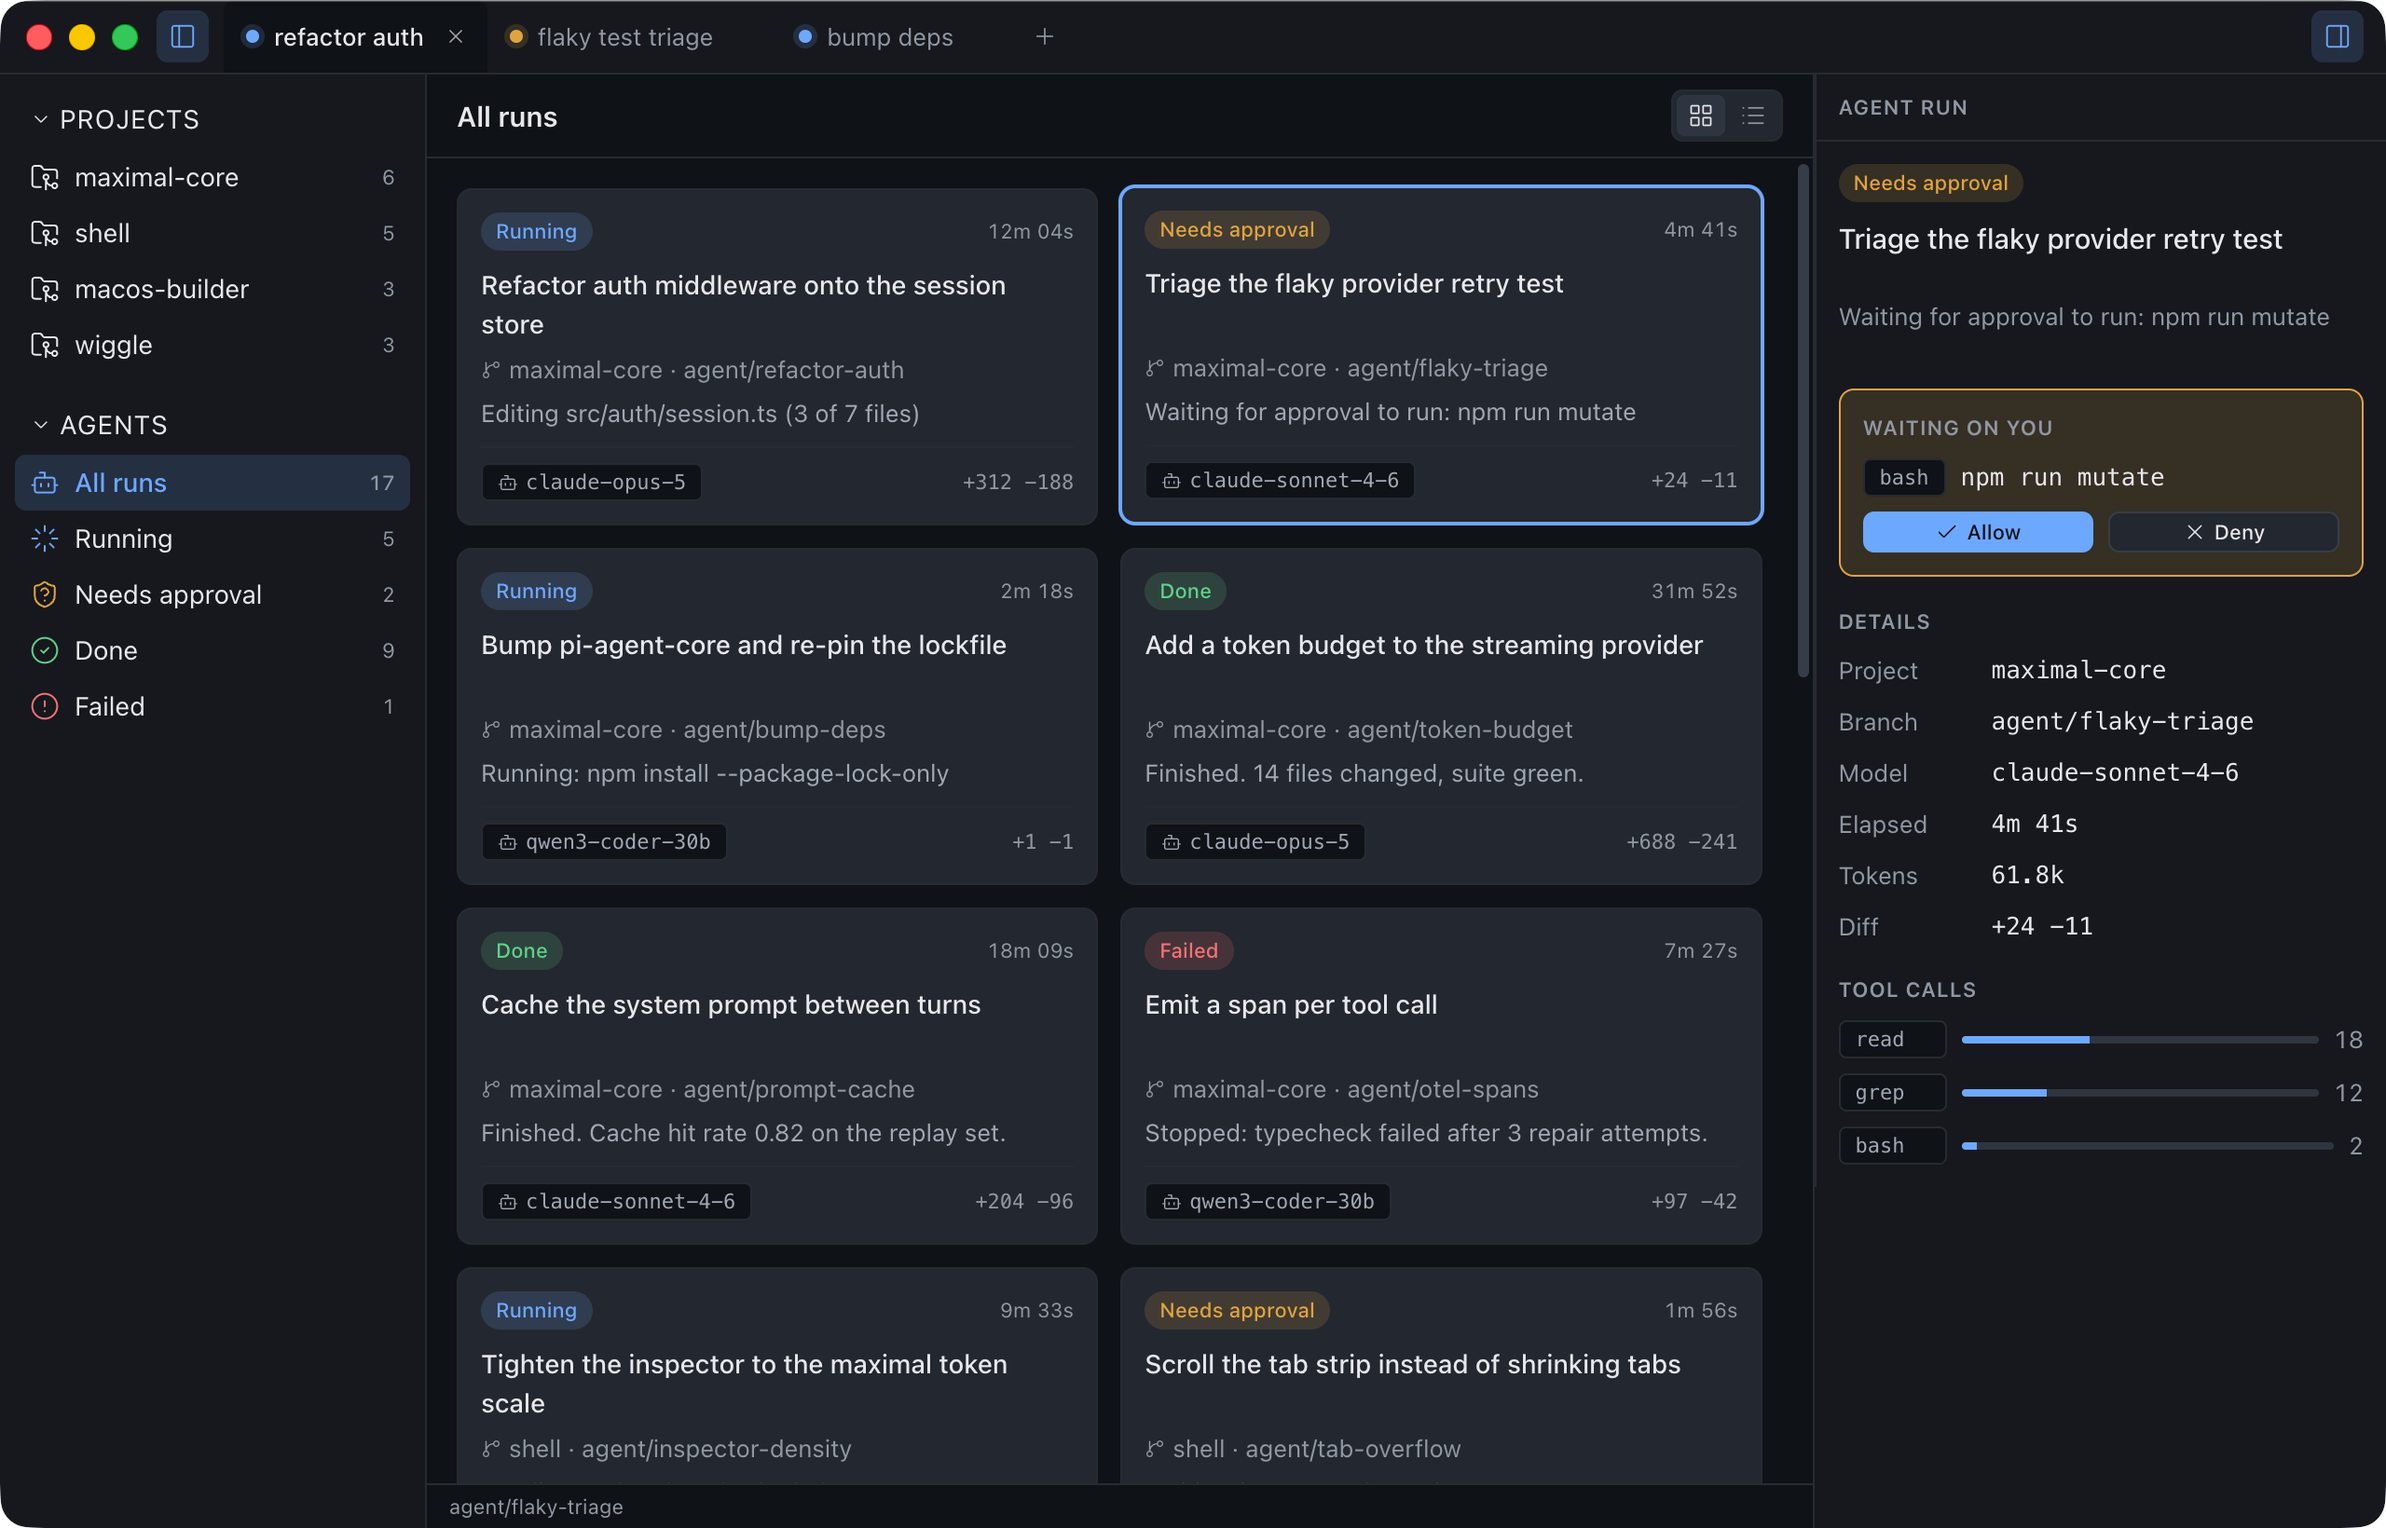
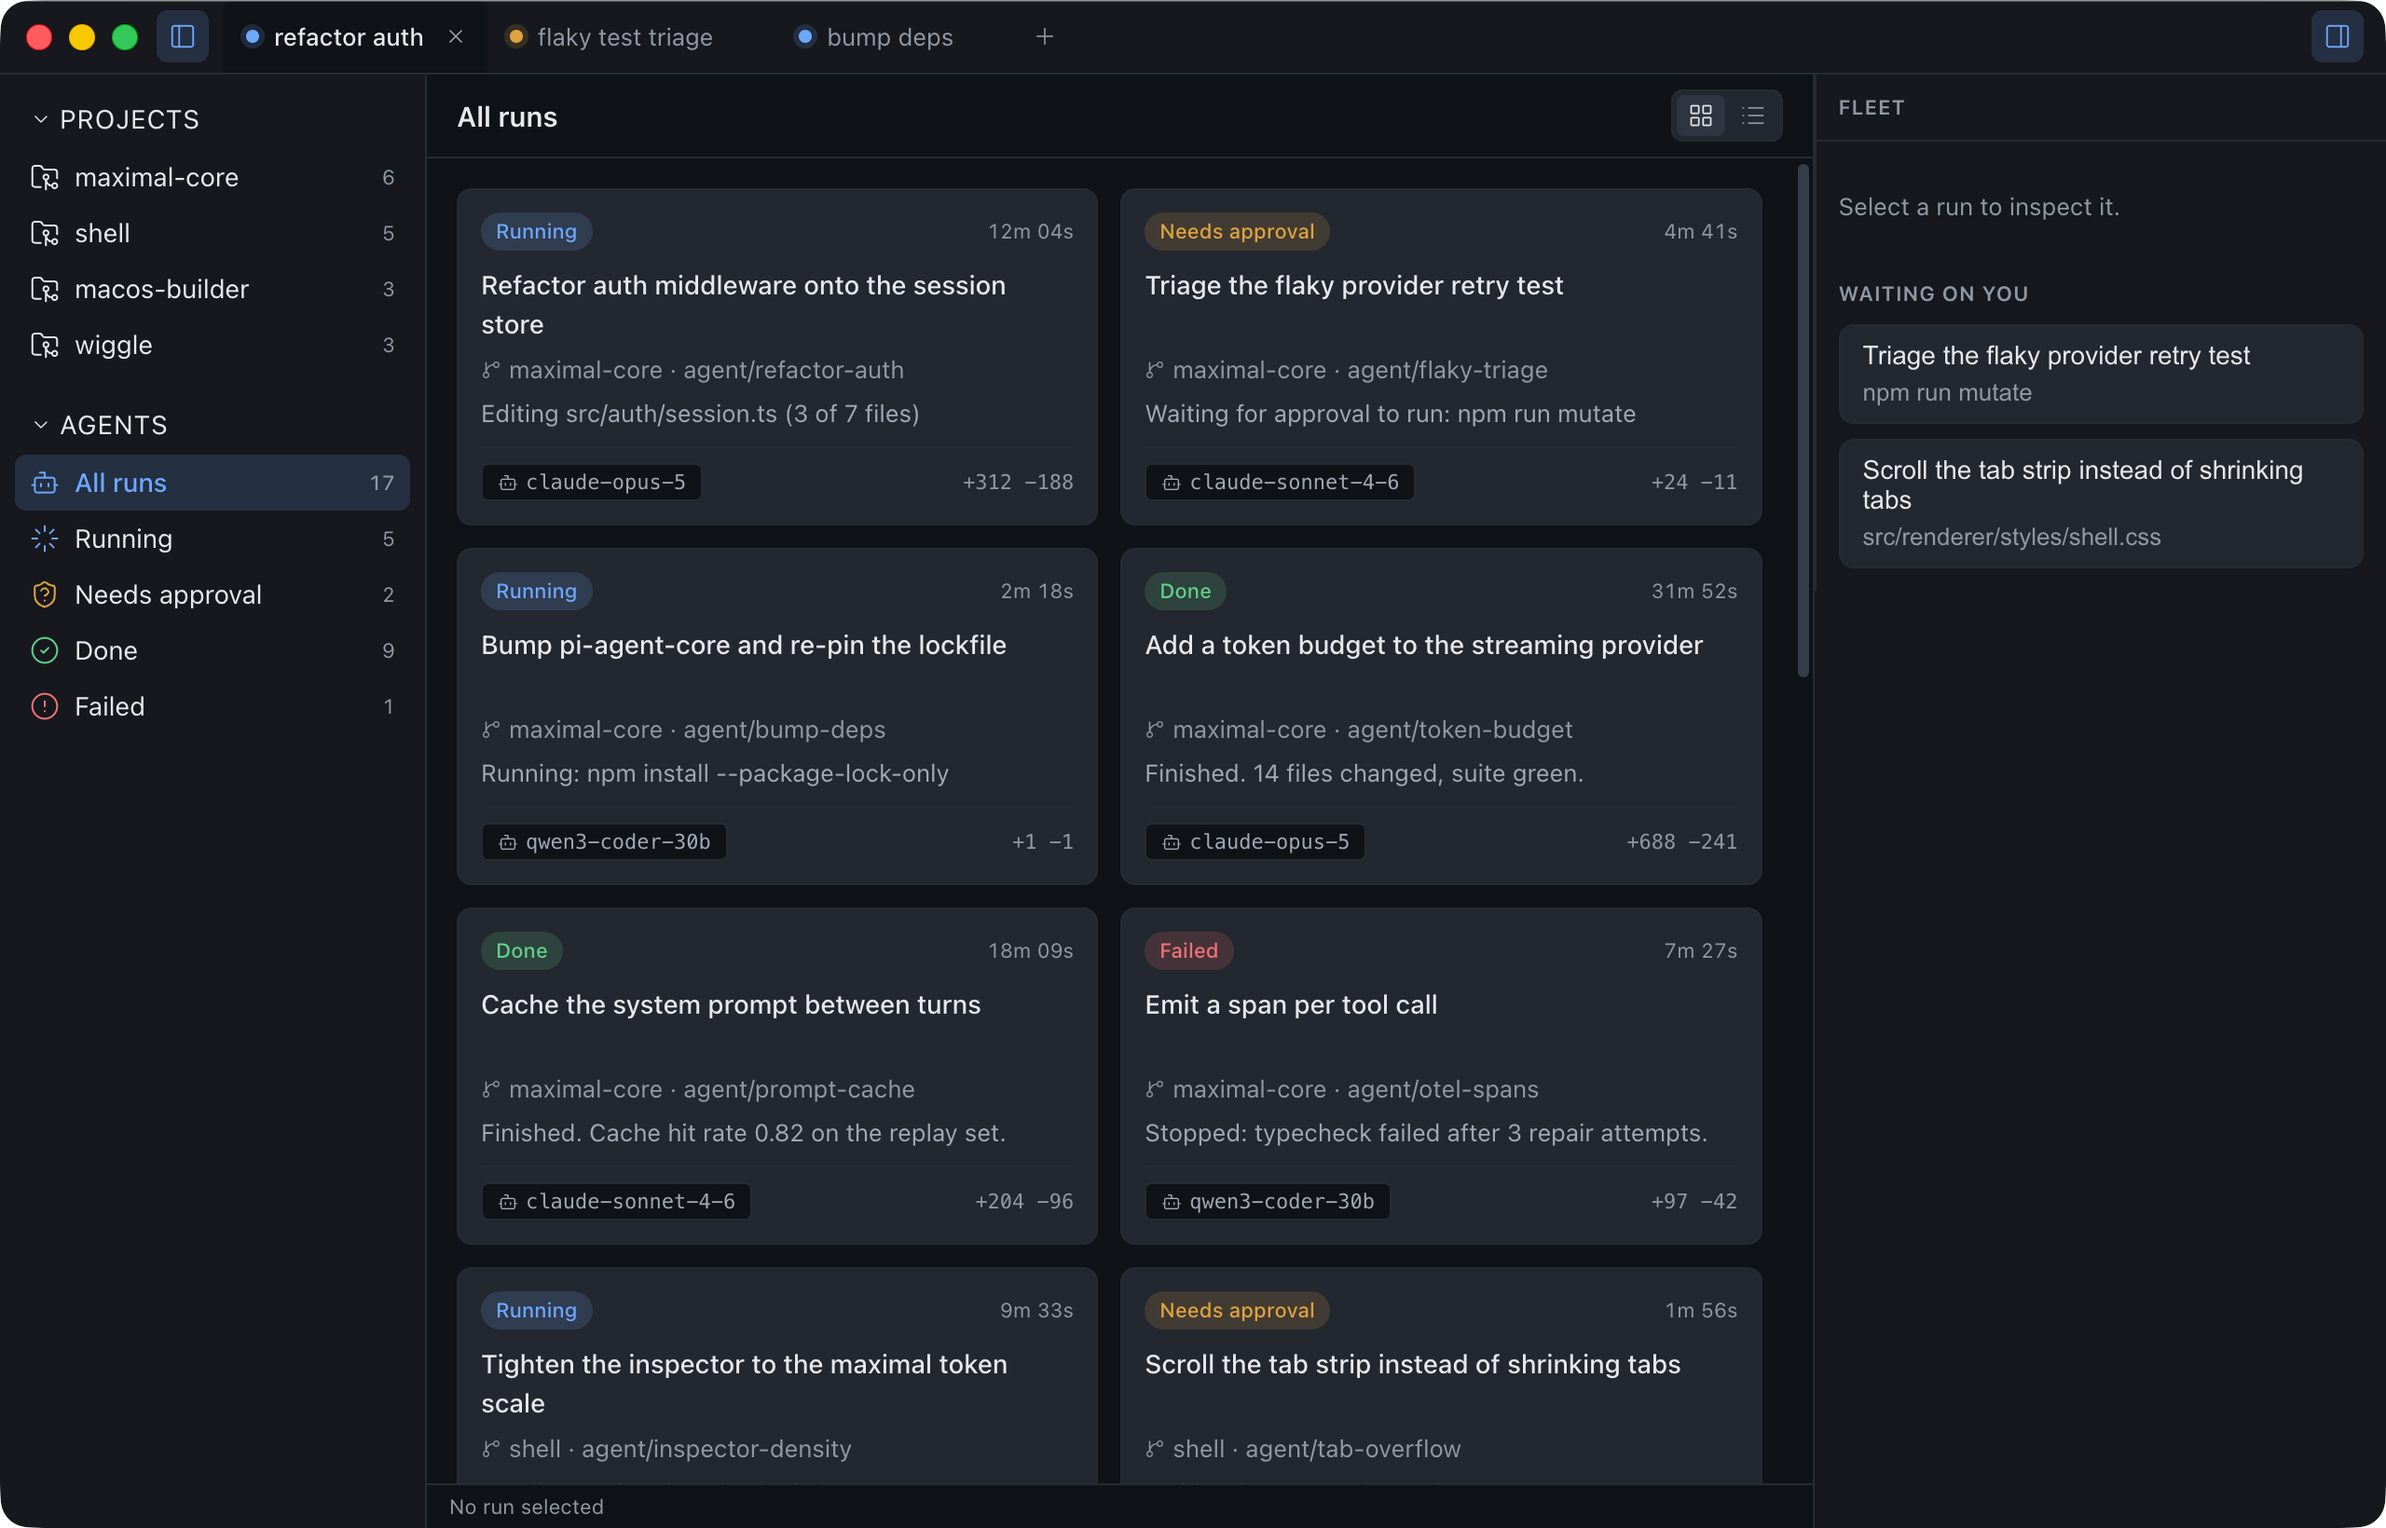
Close the three gaps the fixture found in the --shell-* contract
The eleven required variables are now the whole of what a shell needs.

--shell-position fixes the ShellLayout root to the viewport, so a consumer
needs no height reset and no body margin reset. static restores the old
percentage for a shell nested in a container of their own.

--shell-tab-active and --shell-icon-stroke were values a consumer could not
reach. The icon rule matches svg.lucide rather than every svg, so a consumer's
own artwork keeps the weight it was drawn at.

diff --git a/src/renderer/styles/structural.css b/src/renderer/styles/structural.css
@@ -12,7 +12,28 @@
   box-sizing: border-box;
 }
 
+/*
+ * Icon weight, once. Lucide writes `stroke-width` as an attribute at 2, which
+ * reads heavy beside text at these sizes, and every exported component draws a
+ * Lucide glyph. `.lucide` is the class Lucide puts on the element itself, so a
+ * consumer's own artwork and any other icon set keep the weight they were
+ * drawn at.
+ */
+.sb-shell svg.lucide {
+  stroke-width: var(--shell-icon-stroke, 1.5);
+}
+
+/*
+ * The window, filled without a rule the consumer has to write. `height: 100%`
+ * measures against ancestors this file does not own, so the whole palette
+ * still drew a shell an inch tall. Fixed to the viewport needs neither that
+ * frame nor `body { margin: 0 }`, and `--shell-position: static` gives the
+ * percentage back to a consumer laying the shell out inside a container of
+ * their own.
+ */
 .sb-shell.app {
+  position: var(--shell-position, fixed);
+  inset: 0;
   display: grid;
   grid-template-rows: var(--shell-titlebar-height, 40px) 1fr;
   height: 100%;
@@ -259,9 +280,13 @@
   background: var(--shell-hover);
 }
 
+/* The selected tab's own fill, which is the canvas it opens onto until a host
+   names something else. `tokens.css` keeps a dedicated `--tab-active` because
+   a tab sits on the title bar rather than inside a panel, and the step it
+   needs is not the canvas in either scheme. */
 .sb-shell .tab[data-state='active'] {
   color: var(--shell-text);
-  background: var(--shell-canvas);
+  background: var(--shell-tab-active, var(--shell-canvas));
   font-weight: 500;
 }
 

diff --git a/e2e/fixtures/demo-shell/demo.css b/e2e/fixtures/demo-shell/demo.css
@@ -168,43 +168,21 @@
   color: var(--shell-status);
 }
 
-/* A halo, so a 7px dot still reads as "live" against a dark panel. The package
-   draws the dot; how loud it is, is a palette decision and so is the host's. */
-.sb-shell .dot {
-  box-shadow: 0 0 0 3px var(--shell-status-muted, transparent);
-}
-
 /* ------------------------------------------------------------ the document */
 
 /*
- * The page around the shell.
+ * The page behind the shell.
  *
- * `structural.css` styles `.sb-shell` and nothing outside it — a package
- * stylesheet that restyled `body` would be editing its host's document. So a
- * consumer supplies the frame the shell fills, and this is it.
+ * There is no frame to supply. `.sb-shell.app` is fixed to the viewport, so
+ * this fixture sizes neither `html` nor `body` nor `#root` and still fills the
+ * window. What is left is the document's own colour, which shows for the frame
+ * or two before React mounts.
  */
-html,
-body,
-#root {
-  height: 100%;
-  margin: 0;
-  overflow: hidden;
-}
-
 body {
   background: var(--shell-background);
   color: var(--shell-text);
   font: var(--shell-font);
   -webkit-font-smoothing: antialiased;
-}
-
-/*
- * Lucide draws at stroke-width 2, which reads as heavy beside text at these
- * sizes. The package cannot set this: it would be a bare `svg` rule in a
- * consumer's document.
- */
-.sb-shell svg {
-  stroke-width: 1.5;
 }
 
 /* ------------------------------------------------------------- the fleet */

diff --git a/docs/shell-variables.md b/docs/shell-variables.md
@@ -58,7 +58,7 @@ description of what each one draws.
 ## Fallback
 
 Each of these has a value in the CSS. Set one when the design system differs
-from it. Thirteen fall back to another `--shell-*` rather than to a literal,
+from it. Fourteen fall back to another `--shell-*` rather than to a literal,
 which is where legibility survives an unset value but meaning does not:
 `--shell-danger` resolving to `--shell-hover` draws a destructive control that
 looks exactly like an ordinary hovered one.
@@ -76,10 +76,12 @@ looks exactly like an ordinary hovered one.
 | `--shell-focus` | `--shell-accent` | focus ring on every control |
 | `--shell-font` | `400 14px/1.5 system-ui, sans-serif` | the shell's whole type |
 | `--shell-font-mono` | `ui-monospace, SFMono-Regular, Menlo, monospace` | the value half of a `Field` |
+| `--shell-icon-stroke` | `1.5` | the stroke weight of every Lucide glyph inside the shell |
 | `--shell-input-background` | `--shell-canvas` | the surface of a text field, textarea, select and radio |
 | `--shell-input-border` | `--shell-border-strong` | the outline of one of those at rest |
 | `--shell-invalid` | `--shell-danger` | the outline and the message of a field that failed validation |
 | `--shell-nav-heading-height` | `24px` | the space a collapsed `NavRail` keeps for a section heading |
+| `--shell-position` | `fixed` | how the `ShellLayout` root meets the window; `static` lays it out inside the consumer's own container instead |
 | `--shell-radius` | `6px` | buttons, tabs, nav items, list rows, fields, menu popup |
 | `--shell-radius-dialog` | `14px` | the modal card, which is a panel rather than a control |
 | `--shell-radius-large` | `8px` | the `Card` tile, for the same reason |
@@ -92,6 +94,7 @@ looks exactly like an ordinary hovered one.
 | `--shell-space-5` | `24px` | the padding an `EmptyState` keeps around its message |
 | `--shell-status` | `--shell-text-subtle` | the status dot, the `StatusChip` label, the `Banner` text |
 | `--shell-status-muted` | `--shell-active` | the `StatusChip` and `Banner` fills |
+| `--shell-tab-active` | `--shell-canvas` | the fill behind the selected tab |
 | `--shell-terminal-background` | `--shell-canvas` | the terminal's own surface |
 | `--shell-titlebar-height` | `40px` | the title bar row of the application grid |
 | `--shell-warning` | `--shell-accent` | the attention marker on a tab |
@@ -121,27 +124,27 @@ CSS kind.
 ## What the variables do not cover
 
 Every rule in the shipped stylesheet is scoped under `.sb-shell`, so the
-document around it is the consumer's. Defining all eleven required variables
-still renders a shell that does not fill the window, because
-`.sb-shell.app { height: 100% }` measures against an ancestor that has no
-height.
+document around it stays the consumer's. The package asks nothing of it.
+`.sb-shell.app` is fixed to the viewport, so a shell drawn by `ShellLayout`
+fills the window with no `html, body, #root { height: 100% }` and no
+`body { margin: 0 }` underneath it. That reset used to be the price of a
+correct shell, and the symptom of leaving it out — a correct palette on a shell
+an inch tall — read as a defect in the package. The capture fixture hit it while
+consuming the package the way this document prescribes, and dropped the reset
+again once `--shell-position` landed.
 
-A consumer supplies the frame themselves:
+Two things stay outside the contract.
 
-```css
-html, body, #root { height: 100%; margin: 0 }
-```
+**A layout composed without `ShellLayout`.** `TitleBar`, `NavRail` and `Canvas`
+style themselves and not the element that holds them, because that element is
+the consumer's. A consumer arranging the parts owns the frame around them, and
+no variable can reach a container the package does not render.
 
-This is not a variable and no variable can carry it. It is stated here because
-the symptom — a correct palette on a shell an inch tall — reads as a defect in
-the package rather than as a missing rule in the application, and the capture
-fixture hit it while consuming the package the way this document prescribes.
-
-Two more things the exported components draw that no variable names.
-`structural.css` does not set `svg { stroke-width }`, so Lucide glyphs render at
-their default of 2 against the 1.5 this application uses, and `.dot` ships
-without the halo `shell.css` gives it. Both are the consumer's to add, and
-both are candidates for a variable rather than settled design.
+**Artwork that is not a Lucide glyph.** `--shell-icon-stroke` applies through
+`svg.lucide`, which is the class Lucide writes on the element. A blanket
+`.sb-shell svg` would restyle a consumer's logo and any other icon set they put
+inside the shell. That is their drawing rather than the shell's furniture, so
+the weight the package sets stops at the glyphs the package draws.
 
 ## Assert against it from a consuming application
 

diff --git a/README.md b/README.md
@@ -158,12 +158,17 @@ these semantic variables on `:root` or `body`:
 | `--shell-accent` | Selection, focus, and resize feedback. |
 | `--shell-accent-muted` | Selected-control background. |
 
-Thirty more variables have structural fallbacks in the CSS, and two are read
-by JavaScript rather than by any rule. `docs/shell-variables.md` holds the whole
-contract, derived from the stylesheet and checked against it in both directions.
-Set the ones your design system disagrees with.
+Thirty-three more variables have structural fallbacks in the CSS, and two are
+read by JavaScript rather than by any rule. `docs/shell-variables.md` holds the
+whole contract, derived from the stylesheet and checked against it in both
+directions. Set the ones your design system disagrees with.
 `@stuffbucket/maximal-electron/verify/shell-variables` exports the derivation so an
 application can assert its own adapter against the stylesheet it installed.
+
+Those eleven are the whole of what the shell needs from you. `ShellLayout`'s
+root is fixed to the viewport, so it fills the window with no document reset of
+your own; set `--shell-position: static` to lay the shell out inside a container
+you have given a height to instead.
 
 `:root` or `body` rather than your own container, because `Dialog`, `Menu` and
 `IconButton`'s tooltip do not render where they are written. Each portals above
